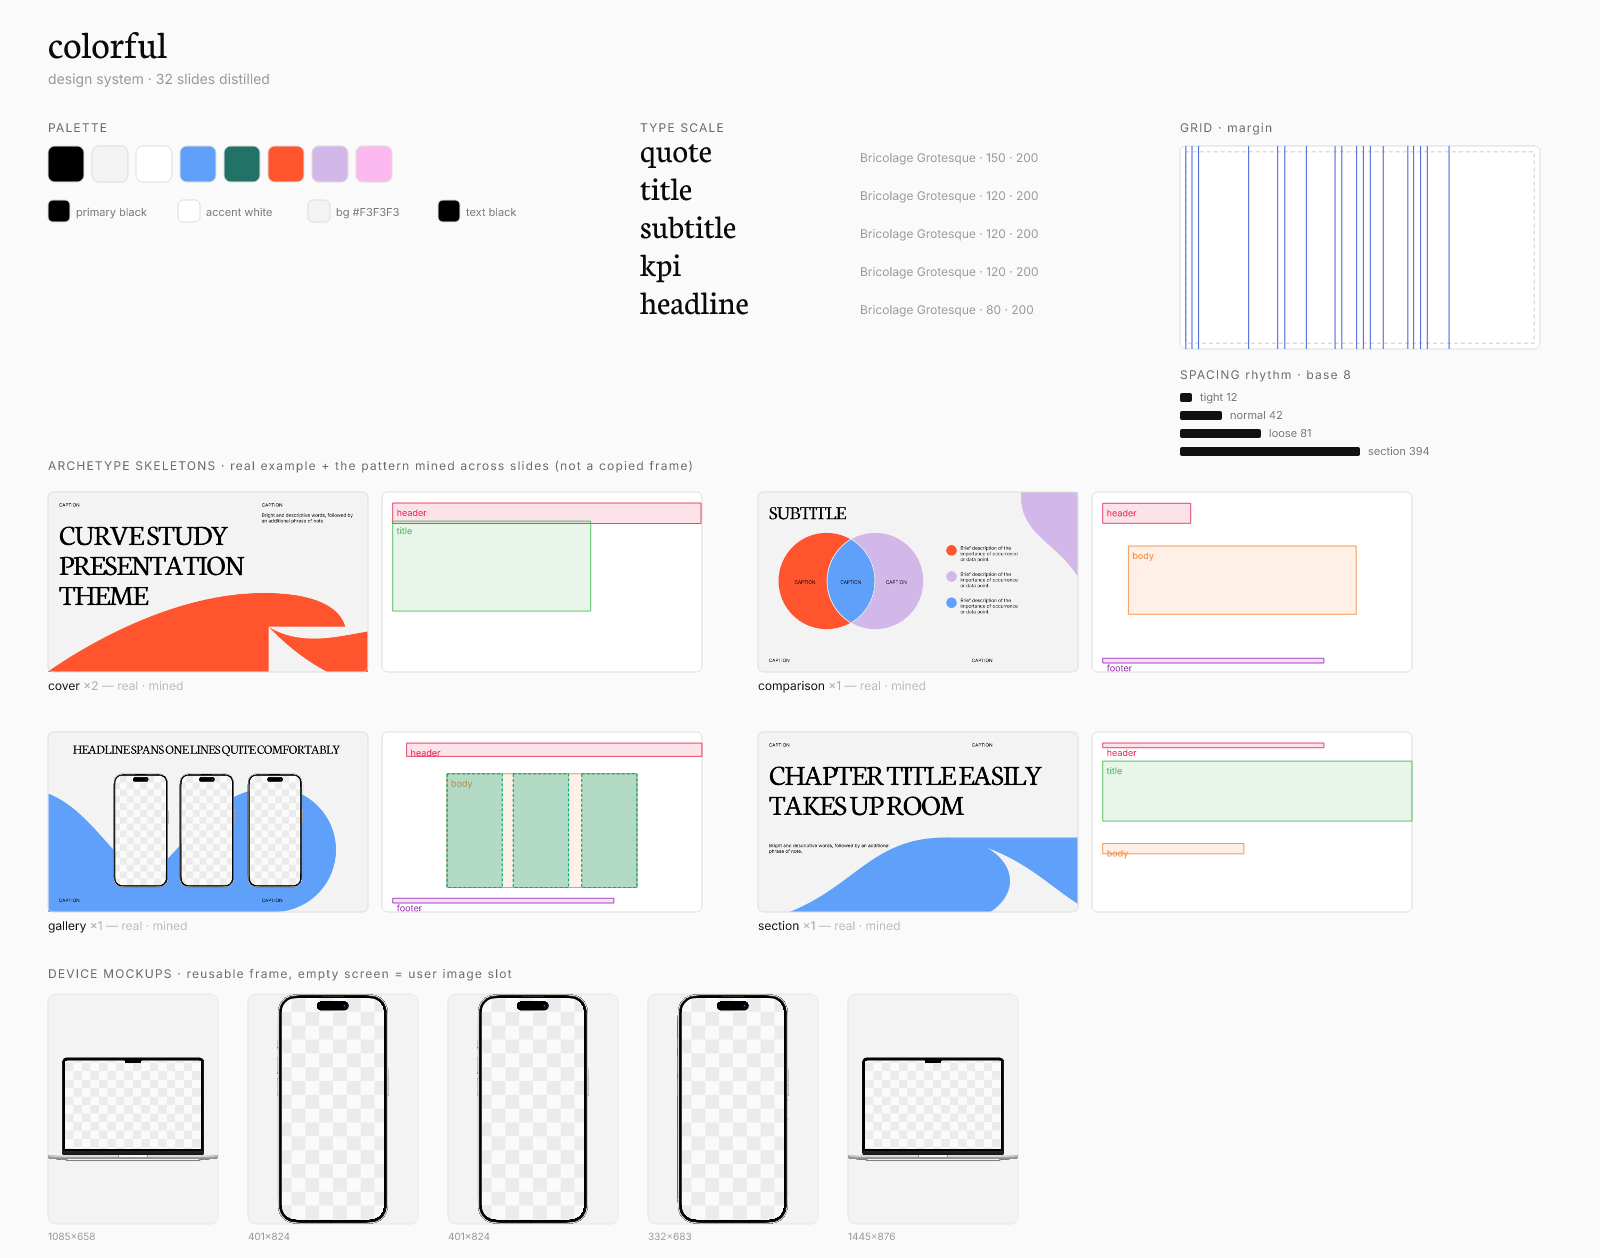
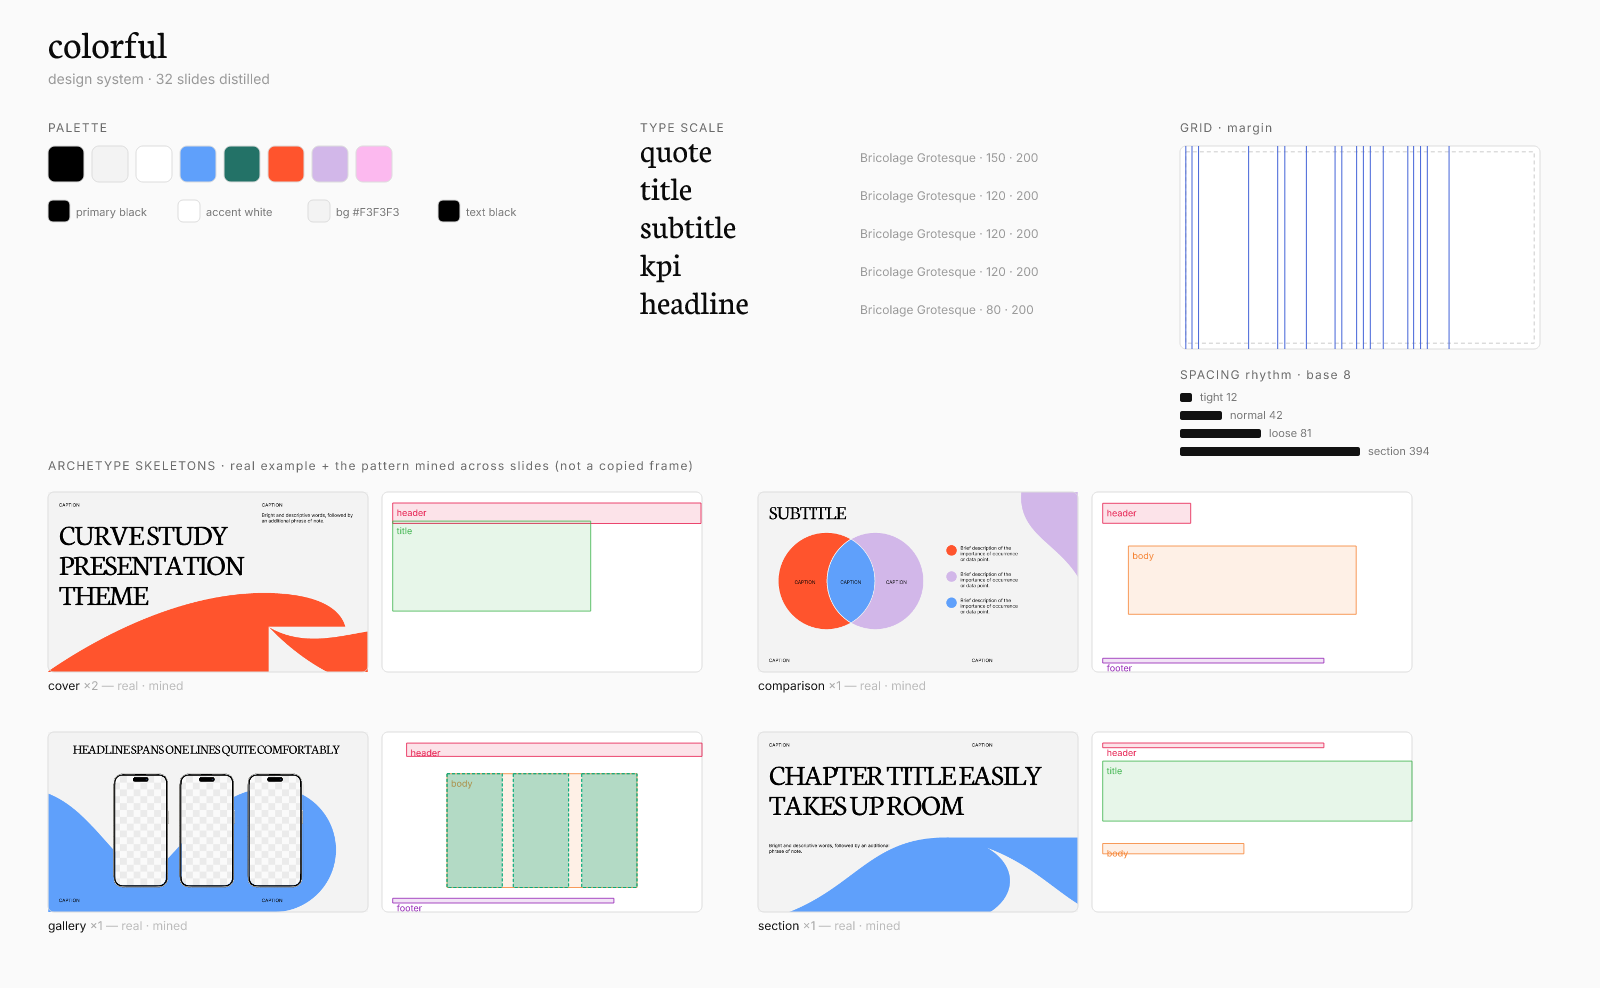
docs(portfolio): lighter overview, tighter design-system block, drop board mockups, sharpen roadmap + add conclusion
Roadmap reframed around resolving technical constraints and laying a
productization foundation (upload→assetize, user assets + export); adds a
conclusion. Colorful board drops the device-mockups row.

diff --git a/docs/portfolio.html b/docs/portfolio.html
@@ -23,7 +23,7 @@
   p{margin:0 0 12px;color:#2a2a2a}
   .lead{font-size:19px;color:var(--muted);max-width:680px}
   .pills{margin:8px 0 22px}
-  .overview{border:1px solid var(--line2);border-radius:20px;padding:24px 28px;background:var(--fill);max-width:820px;margin-top:0}
+  .overview{border:1px solid var(--line);border-radius:20px;padding:24px 28px;background:#fcfcfd;max-width:820px;margin-top:0}
   .overview p{margin:0;font-size:16.5px;line-height:1.7;color:#2a2a2a}
   .overview p b{color:var(--ink)}
   .kicker{display:inline-flex;align-items:center;gap:9px;font-weight:700;font-size:15px;margin-bottom:22px}
@@ -185,7 +185,7 @@ layout novelty &lt; 6 → reject</span></p></div>
   <section>
     <h2>Design systems · 템플릿 → 정립된 시스템</h2>
     <p class="lead" style="margin-bottom:24px">테마마다 슬라이드들을 하나의 재사용 디자인 시스템으로 정리한다. 복사한 슬라이드가 아니라 거기서 뽑아낸 규칙이다. 인스펙터는 팔레트, 타입 스케일, 그리드와 리듬, 계층, blocks, 아키타입 골격, 장식, 목업을 한 페이지에 모아 보여준다.</p>
-    <svg class="diagram" viewBox="0 0 1040 470" xmlns="http://www.w3.org/2000/svg" font-family="Inter">
+    <svg class="diagram" viewBox="0 0 1040 392" xmlns="http://www.w3.org/2000/svg" font-family="Inter">
       <text x="20" y="30" font-size="12" font-weight="700" fill="#6b6b6b" letter-spacing="1.2">PALETTE</text>
       <g>
         <rect x="20" y="42" width="30" height="30" rx="6" fill="#000000" stroke="#ddd"/>
@@ -380,13 +380,15 @@ layout novelty &lt; 6 → reject</span></p></div>
 
   <!-- WHAT'S NEXT -->
   <section>
-    <h2>What's next · 차기 기술 로드맵</h2>
-    <p class="lead" style="margin-bottom:22px">지금 결정론 배치는 안정적으로 돌아간다. 다음은 같은 역할 분리를 유지하면서 더 센 도구를 얹는 것이다.</p>
-    <div class="next"><div class="h">Constraint solver<small>Cassowary / kiwi</small></div><div class="b">골격을 하드·소프트 제약으로 표현해서 단순 세로 스택을 넘는 자유로운 배치를 하려 한다. "관계 먼저, 좌표는 나중에"라는 골격 철학과도 잘 맞는다.</div></div>
-    <div class="next"><div class="h">Embedding retrieval<small>vector similarity</small></div><div class="b">아키타입 매칭과 유사도 점수를 지금은 구조 거리로 재는데, 임베딩 거리로 바꾸면 신규성 판단과 검색이 더 풍부해진다.</div></div>
-    <div class="next"><div class="h">Preference learning<small>DPO-style</small></div><div class="b">evaluator의 7개 지표를 보상으로 써서 아키타입·콘텐츠 고르는 방식을 학습시키면, 사람 피드백 없이도 스스로 나아질 수 있다.</div></div>
-    <div class="next"><div class="h">Multi-agent decomposition<small>planner · designer · critic</small></div><div class="b">지금은 한 루프 안에서 다 하는데, planner·designer·critic으로 역할을 나누면 병렬로 돌리고 전문화할 수 있다. 비평은 항상 따로 둔다.</div></div>
-    <div class="next"><div class="h">VLM-grounded decoration<small>+ Code Connect sync</small></div><div class="b">장식과 이미지 선택을 비전-언어 모델로 콘텐츠에 맞추고, 디자인 토큰·컴포넌트를 코드와 양방향으로 동기화하려 한다.</div></div>
+    <h2>What's next · 차기 로드맵</h2>
+    <p class="lead" style="margin-bottom:22px">방향은 두 축이다. <b>남은 기술적 제약을 풀어 배치 표현력을 넓히는 것</b>, 그리고 <b>추출–합성 파이프라인을 실제로 쓸 수 있는 제품으로 만드는 것</b>. 둘 다 "의미는 LLM, 픽셀은 코드"라는 같은 구조 위에서 진행한다.</p>
+    <div class="next"><div class="h">Constraint solver<small>기술 제약 · kiwi</small></div><div class="b">골격을 하드·소프트 제약으로 표현해 세로 스택을 넘는 자유 배치로 간다. 지금 부분적으로만 쓰는 관계 그래프(over·avoids·aligned)를 제약으로 직접 풀어, 표현력과 안정성을 동시에 올린다.</div></div>
+    <div class="next"><div class="h">템플릿 업로드 → 자동 에셋화<small>제품화 기반</small></div><div class="b">지금은 미리 구운 3개 테마만 쓴다. 사용자가 자기 덱을 올리면 그 자리에서 GrammarSpec을 구워 바로 생성하도록, 업로드–흡수–문법 추출을 한 흐름으로 잇는다.</div></div>
+    <div class="next"><div class="h">사용자 자산 연결 + Export<small>제품화 기반</small></div><div class="b">이미지·로고를 올려 목업 화면과 이미지 zone에 배치하는 UX(생성이 아니라 배치)와, 결과를 PPTX·PDF로 내보내 실제 발표에 쓰는 경로를 붙인다.</div></div>
+    <div class="next"><div class="h">평가기 학습 · 멀티에이전트<small>자기 개선</small></div><div class="b">7개 품질 지표를 보상으로 삼아 아키타입·콘텐츠 선택 정책을 학습하고, planner·designer·critic을 분리해 병렬·전문화한다. 비평은 항상 별도 레인.</div></div>
+
+    <h2 style="margin-top:40px">결론</h2>
+    <p class="lead">이 프로젝트는 LLM 생성에서 반복되는 <b>겹침·캔버스 이탈·결과 비일관성</b>을, 의미와 픽셀의 책임을 가르는 구조로 해결했다. 템플릿에서 추출한 디자인 문법을 제약으로 삼아, 단순 치환이 아니라 <b>일관성과 신규성을 함께 갖춘 새 레이아웃</b>을 결정론적으로 합성한다. 같은 구조 위에 업로드–에셋화–생성–export를 얹으면, 연구 프로토타입을 넘어 <b>사용자가 자기 템플릿으로 발표 자료를 만드는 제품</b>으로 이어진다.</p>
   </section>
 
   <div class="foot">